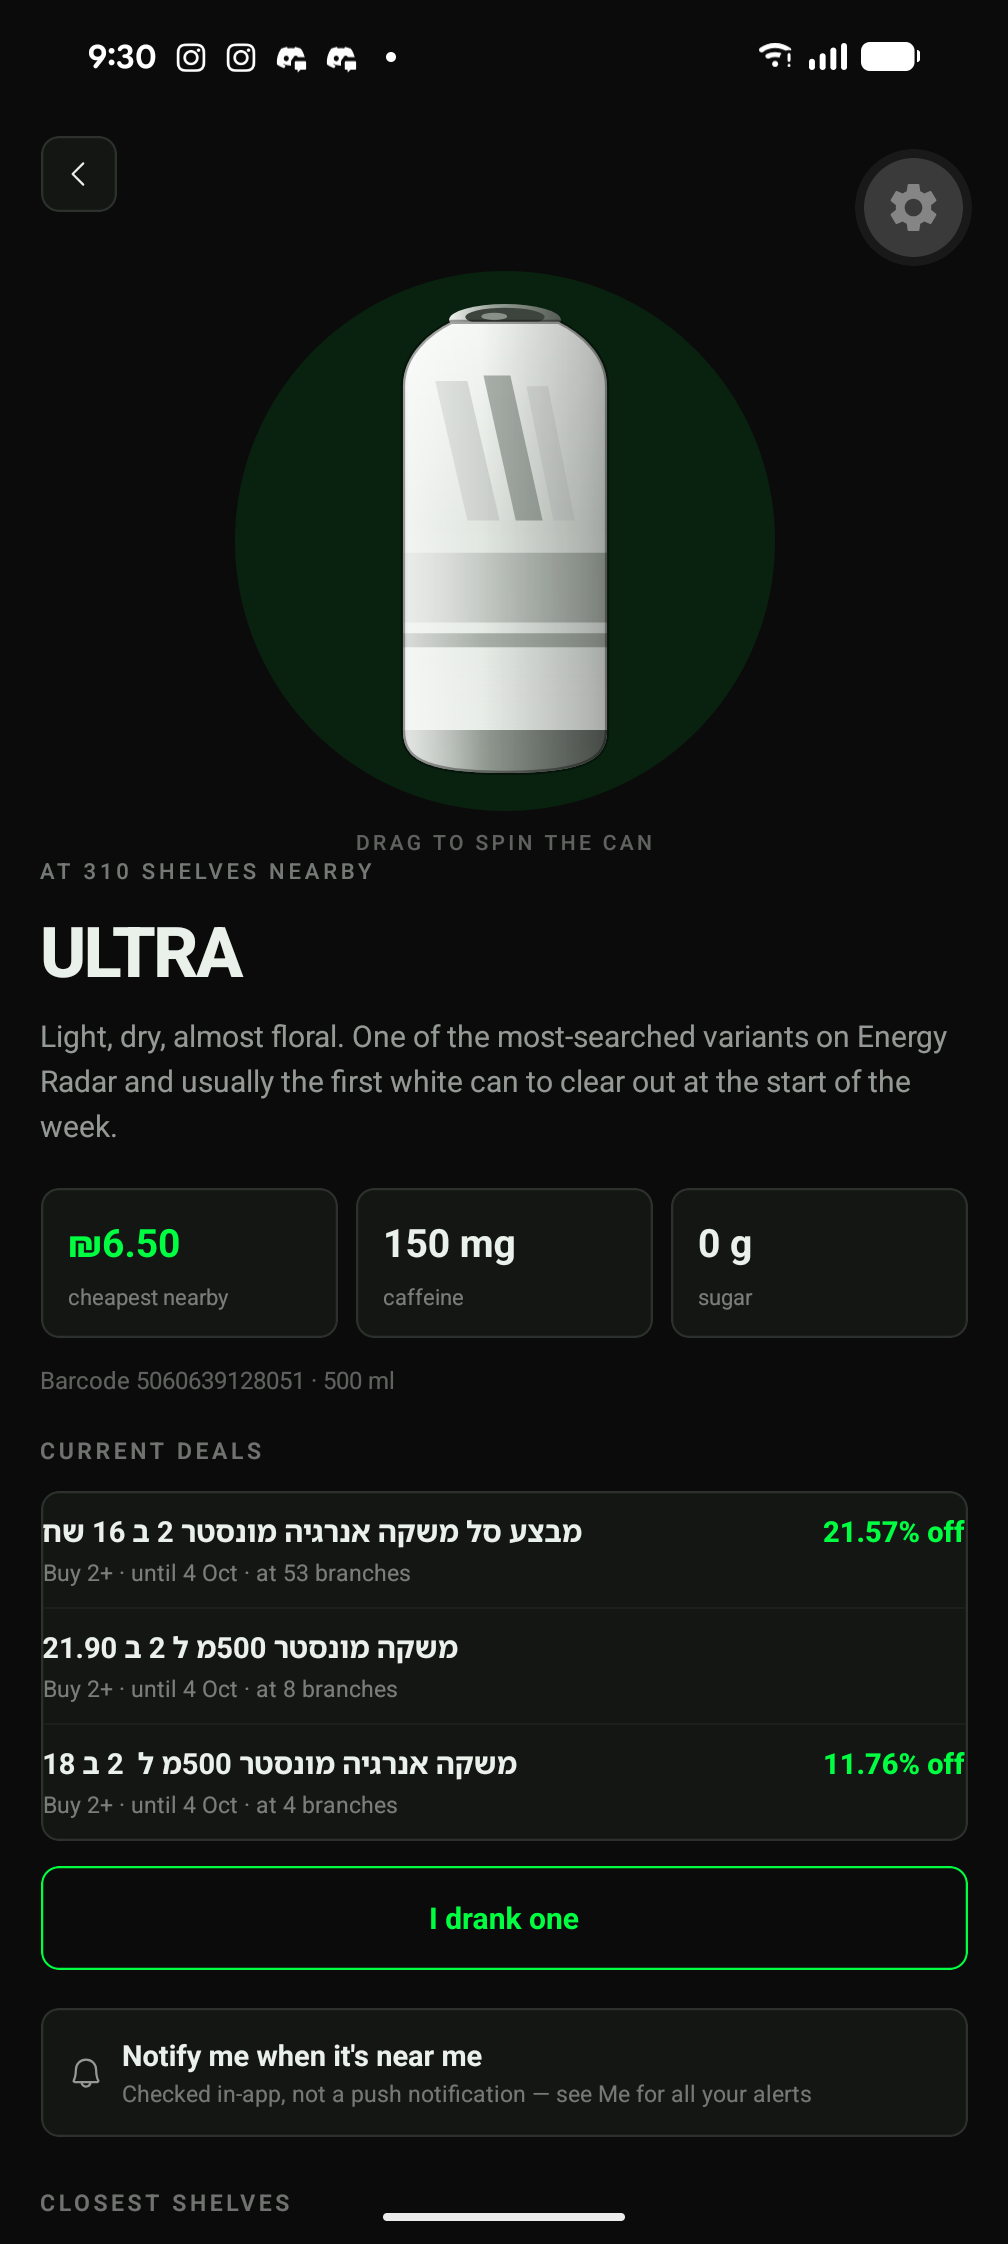
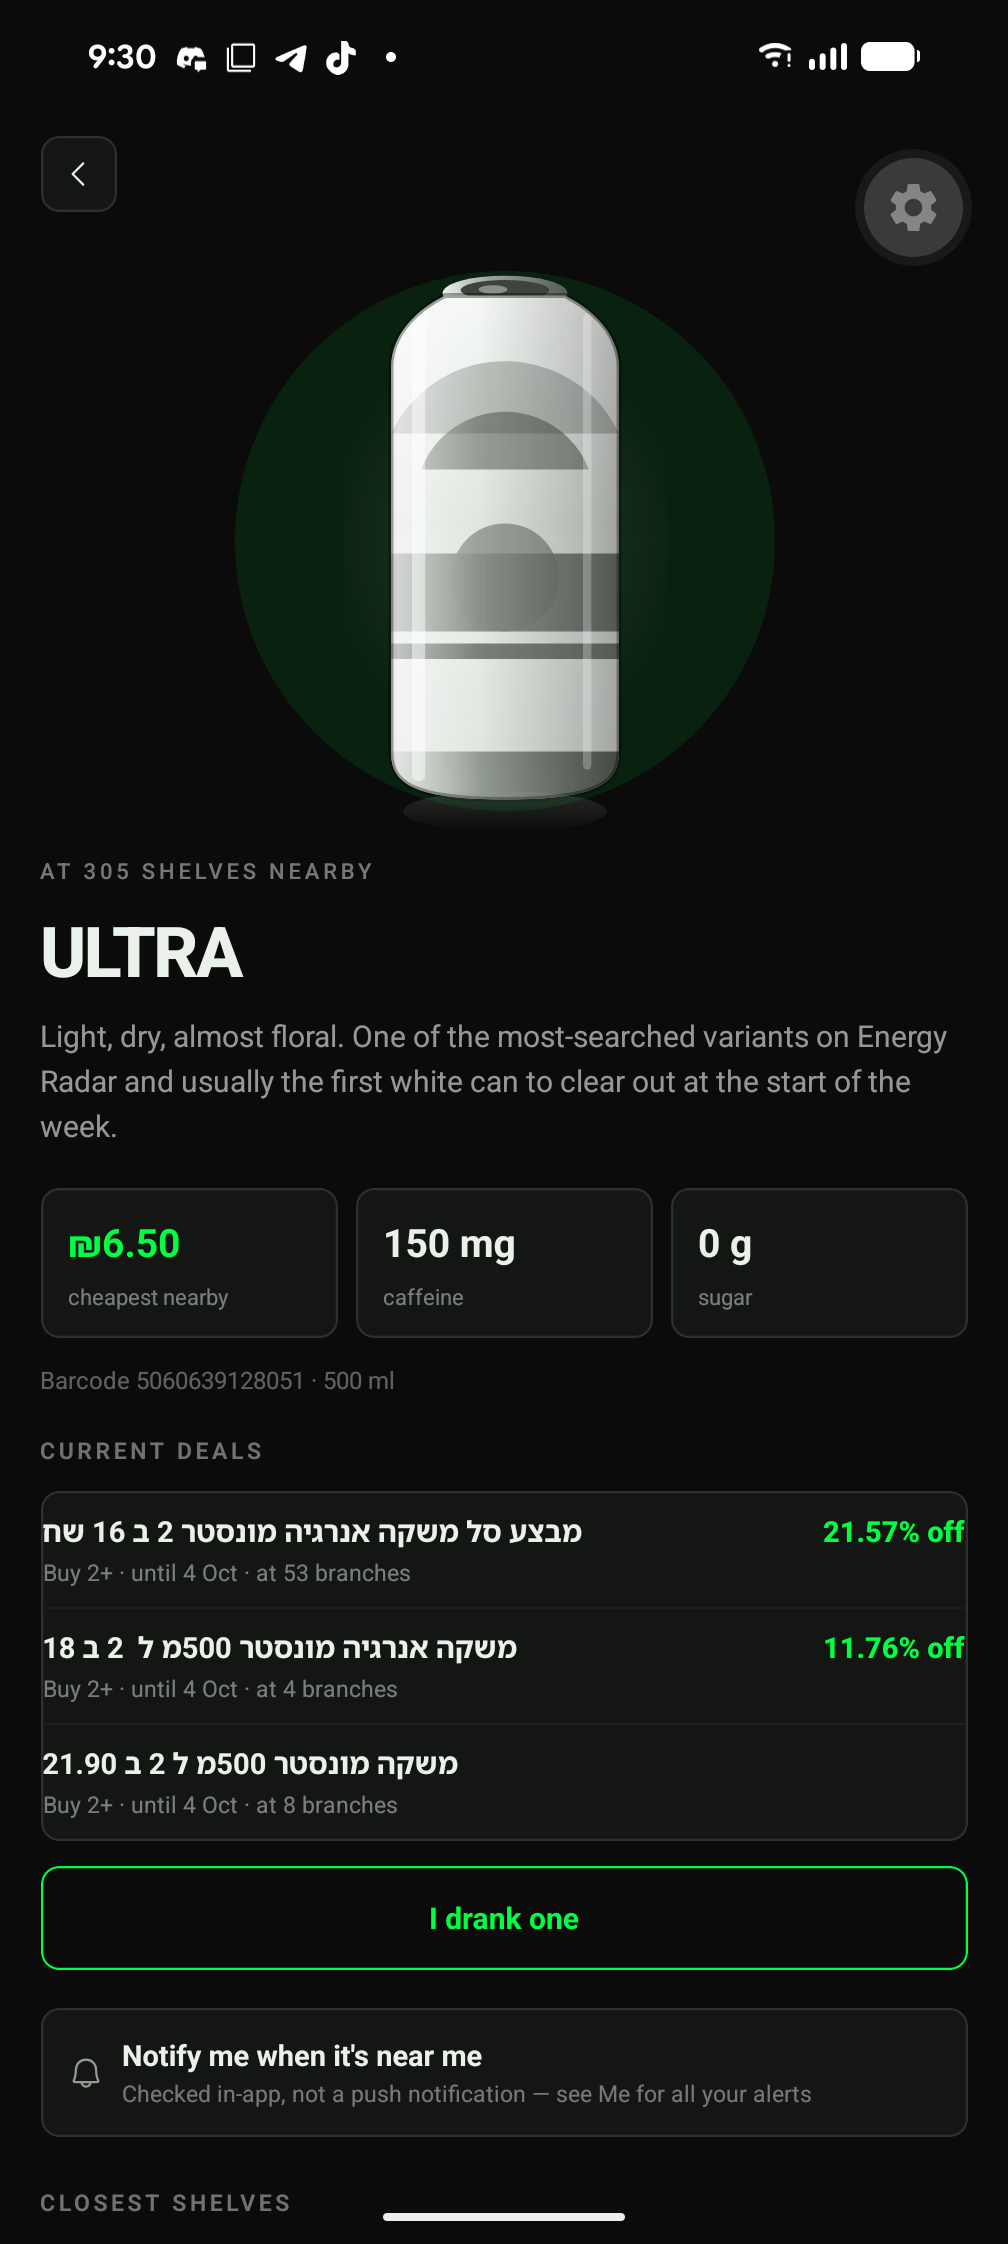
Make Ultra's mark visible, and re-shoot the listing screenshots
Ultra's accent sat at luminance 206 against a 224 shell — 18 apart,
where every other white can is 27 to 83 — so its mark was close to
invisible on a white body. It is also the most-listed flavour in the
dataset, which made it the can users see most and can read least. The
old photographic texture hid this; drawing the cans ourselves exposed
it. Now graphite, still recognisably the plain silver one.

Screenshots re-captured against the redrawn cans, since the previous set
still showed the 3-D photographic ones.

diff --git a/mobile/src/data/catalog.ts b/mobile/src/data/catalog.ts
@@ -87,8 +87,12 @@ export const VARIANTS: Variant[] = [
     id: "ultra",
     name: "Ultra",
     fullName: "Monster Ultra (Zero Sugar)",
-    accent: "#cbd0cb",
-    secondary: "#8d968d",
+    // Graphite rather than the near-white silver it had: at luminance 206
+    // against a 224 shell the mark was invisible on a white can, and this
+    // is the most-listed flavour in the dataset, so it was the can users
+    // saw most and could read least. Still reads as the plain silver one.
+    accent: "#8f978f",
+    secondary: "#4e554e",
     body: "white",
     artwork: "ripple",
     barcode: "5060639128051",
